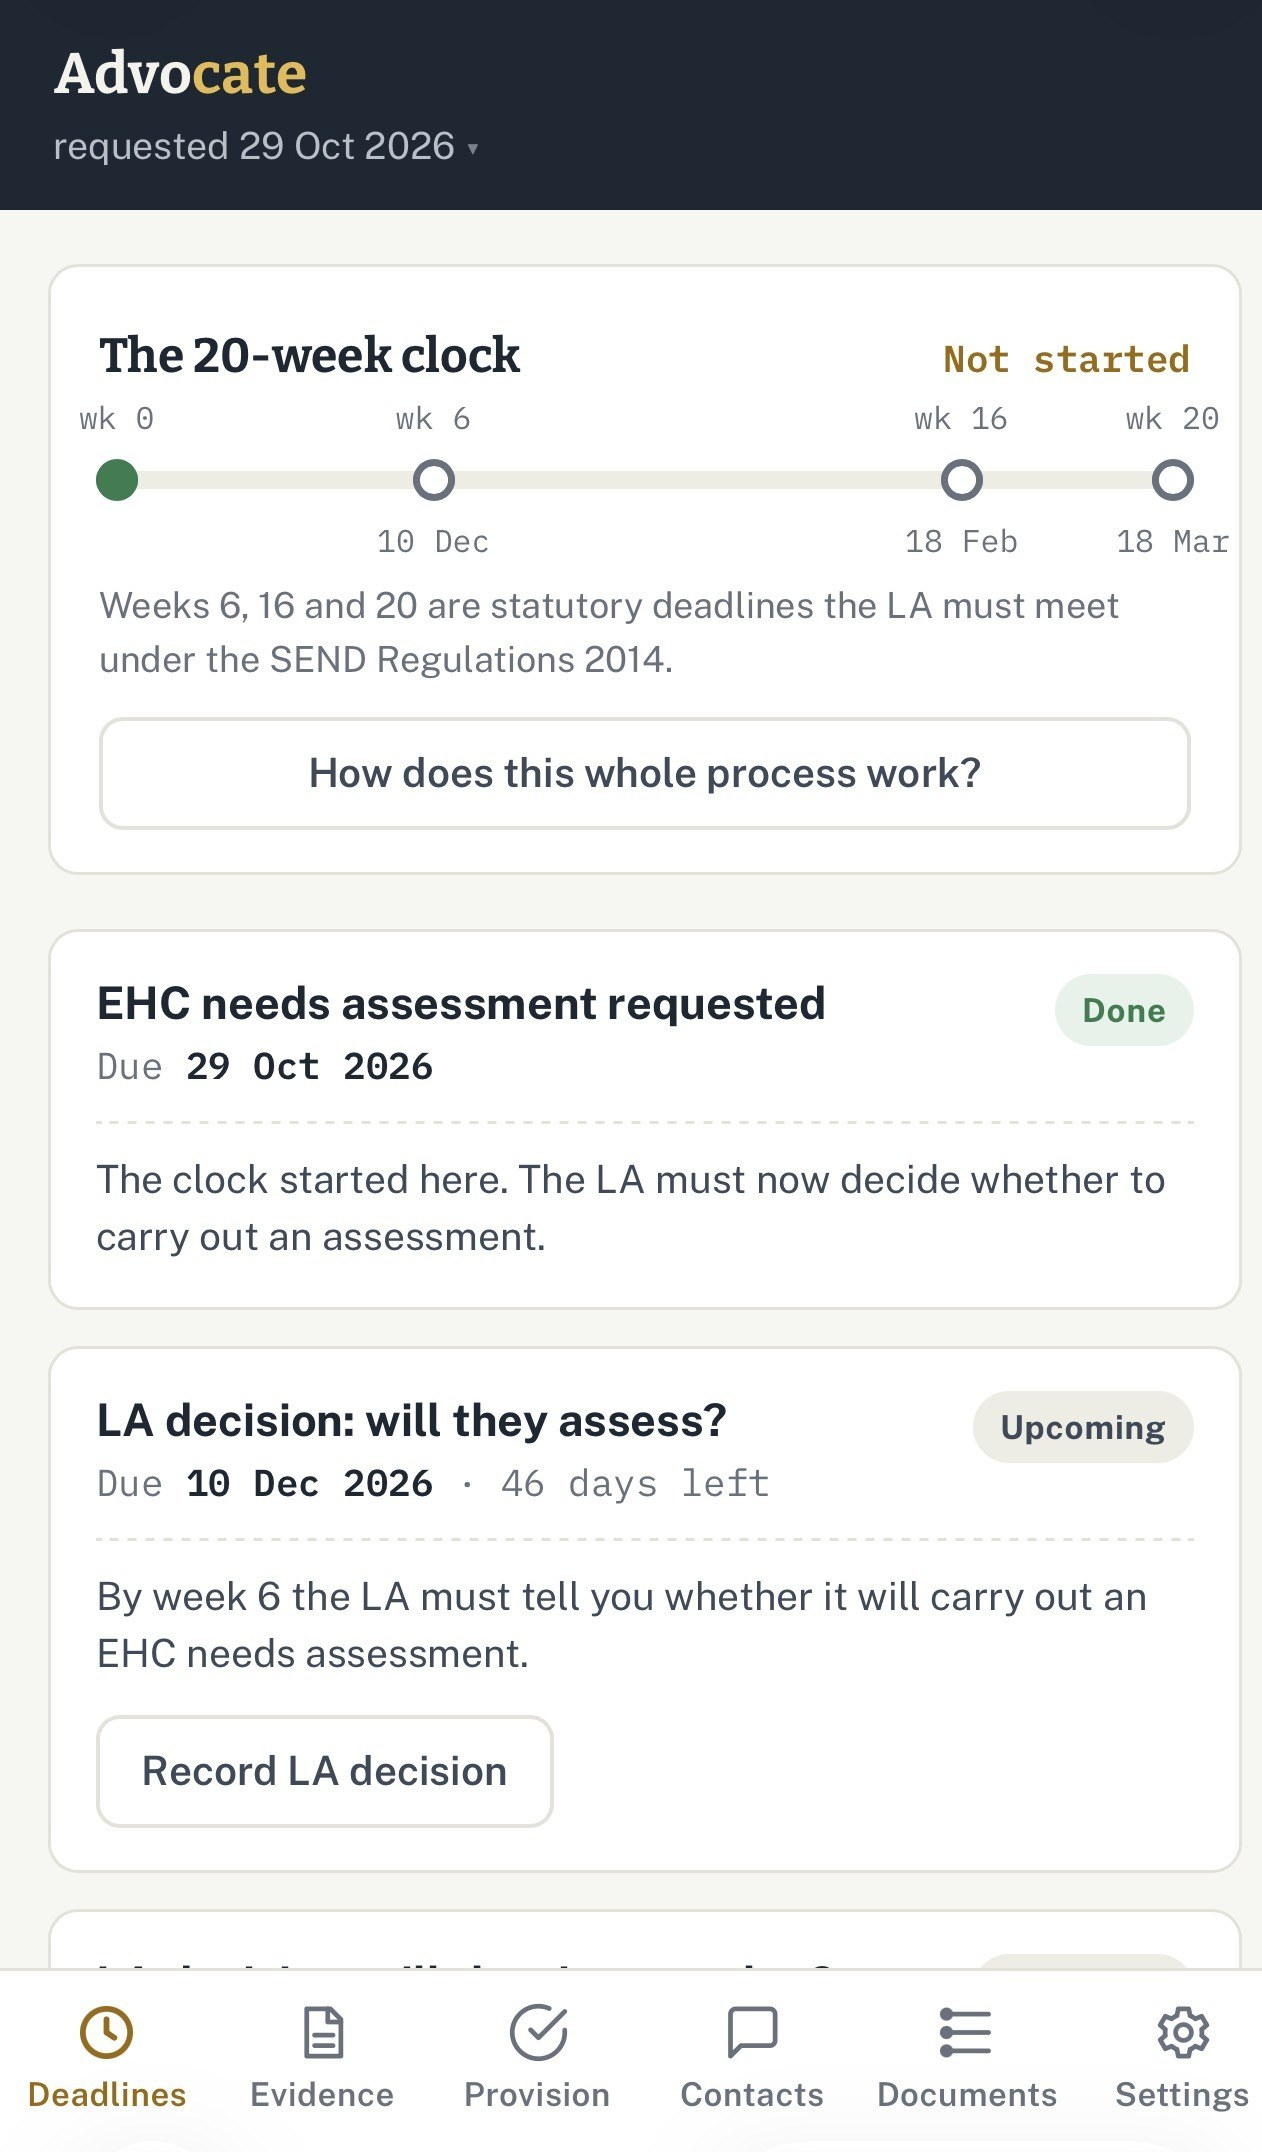
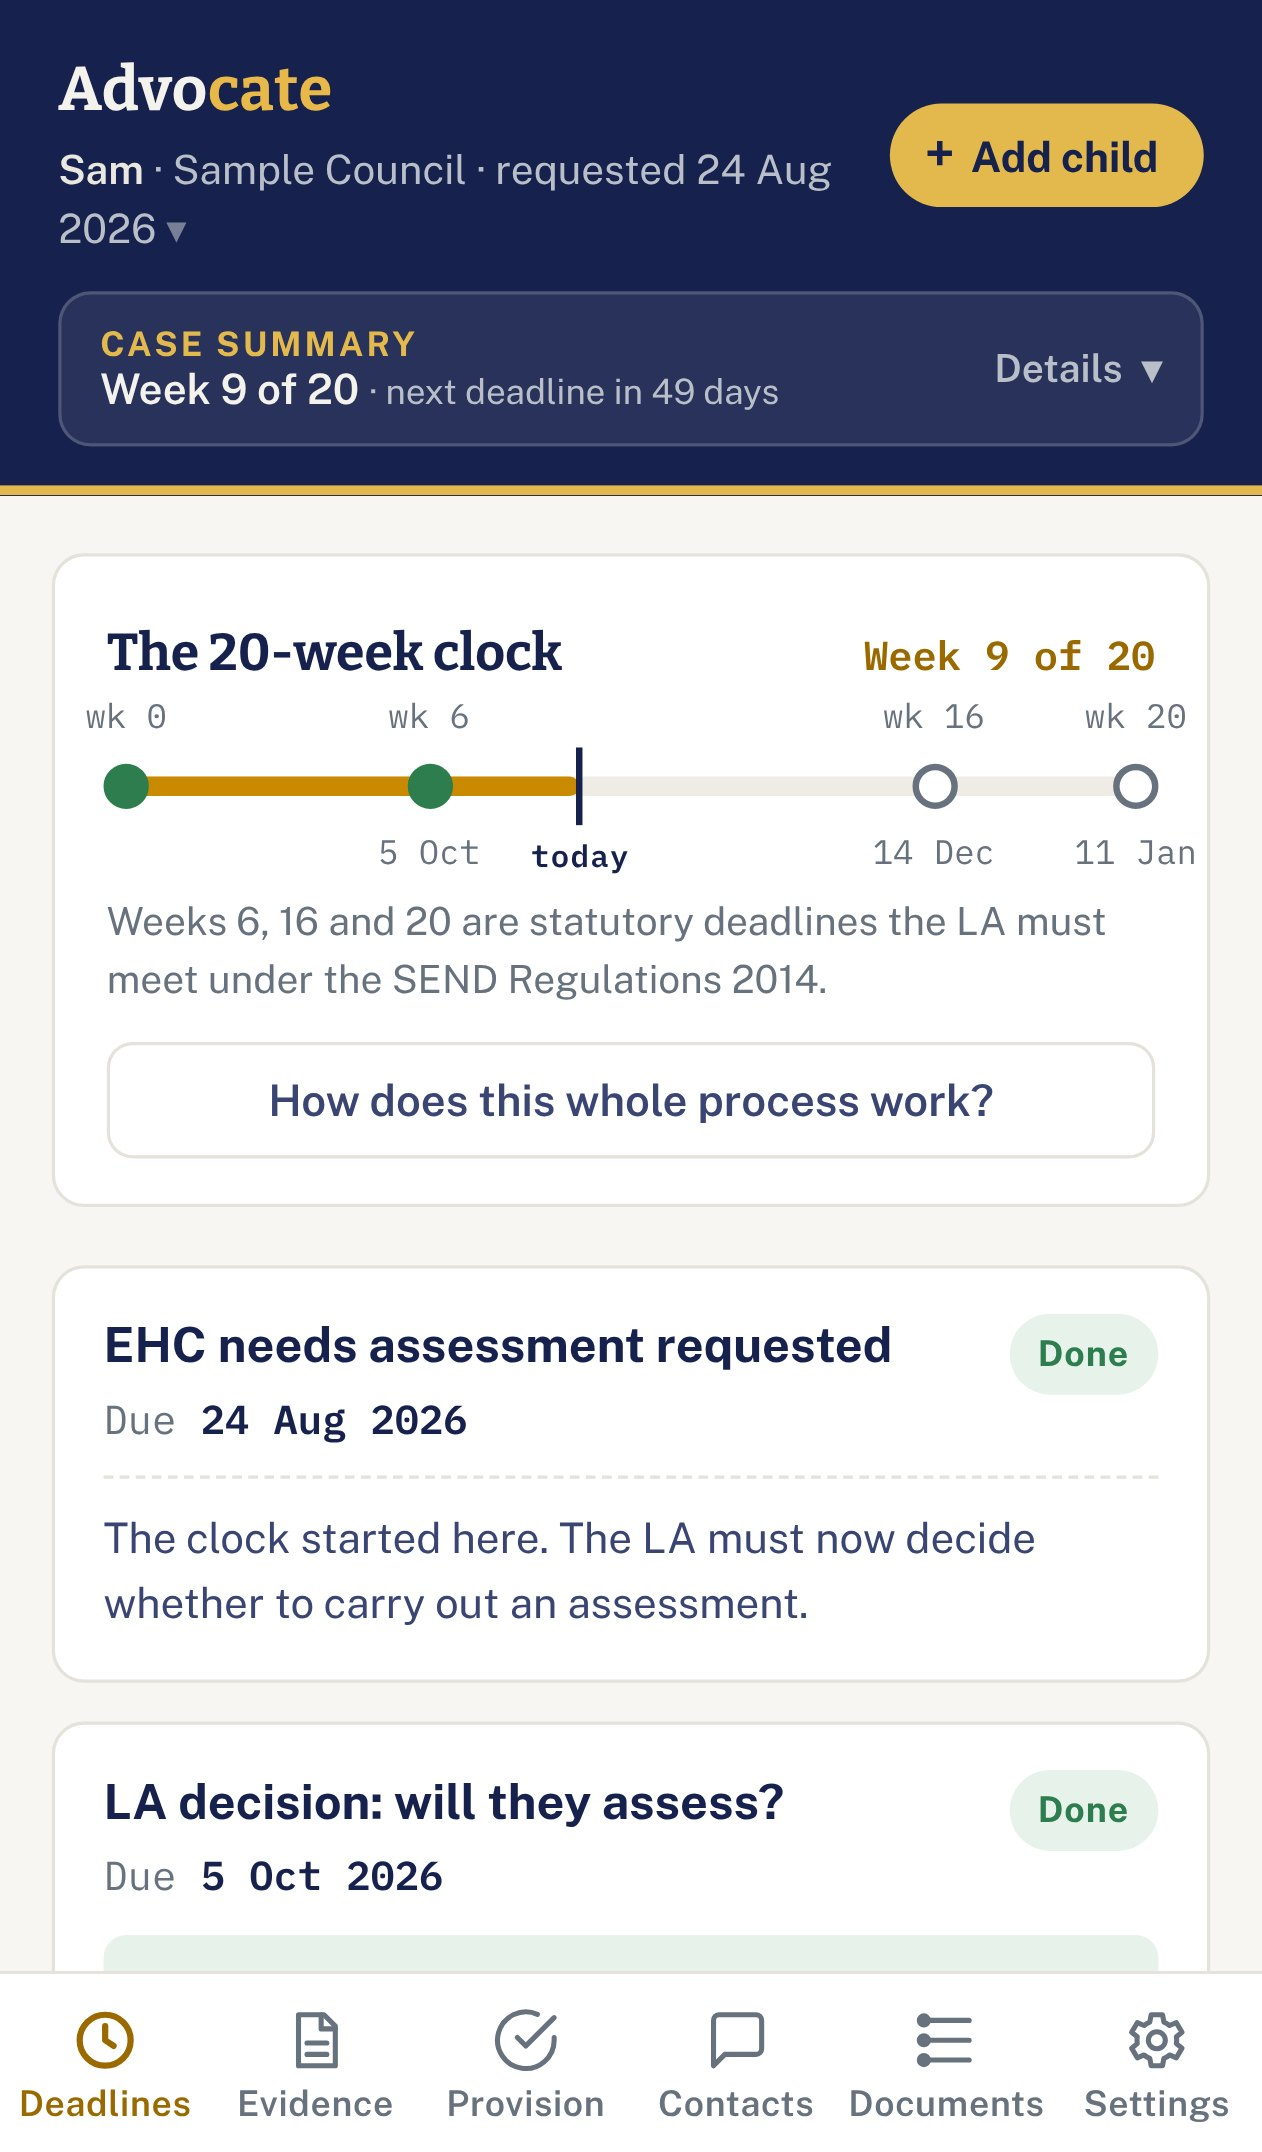
Info site: update Advocate content (reminders, letters, case pack, data on device, code sign-in), new screenshot, Advocate privacy/terms links; still 'Coming soon' with no app link
Claude-Session: https://claude.ai/code/session_018WR4SkxaNb3LRRwV8ea43V

diff --git a/send-apps-site/advocate/index.html b/send-apps-site/advocate/index.html
@@ -4,7 +4,7 @@
 <meta charset="utf-8">
 <meta name="viewport" content="width=device-width, initial-scale=1">
 <title>Advocate – EHCP deadline tracker | IncludeMe</title>
-<meta name="description" content="Advocate keeps every EHCP deadline, piece of evidence and contact in one place, with plain-English guidance at each stage of the 20-week process. Coming soon from IncludeMe.">
+<meta name="description" content="Advocate keeps every EHCP deadline, piece of evidence and contact in one place, with model letters, phone reminders and a printable case pack. Your case stays on your device. Coming soon from IncludeMe.">
 <link rel="canonical" href="https://info.includeme.uk/advocate/">
 <meta property="og:title" content="Advocate – EHCP deadline tracker | IncludeMe">
 <meta property="og:description" content="Know exactly where your child’s EHCP stands. Coming soon.">
@@ -192,12 +192,15 @@ footer a:hover { color: var(--navy); }
       <h2>Everything for the process, in one place.</h2>
     </div>
     <div class="feat-grid">
-      <div class="feat"><h3>Deadlines</h3><p>Each step is marked done or upcoming, with the due date and how many days are left.</p></div>
-      <div class="feat"><h3>Evidence</h3><p>Keep reports, letters and notes together with the case they belong to.</p></div>
-      <div class="feat"><h3>Provision</h3><p>Track the support your child is meant to receive.</p></div>
-      <div class="feat"><h3>Contacts</h3><p>Keep the names and details of everyone involved in one list.</p></div>
-      <div class="feat"><h3>Documents</h3><p>Store the paperwork you need, so you can find it when a deadline arrives.</p></div>
+      <div class="feat"><h3>Deadlines and annual reviews</h3><p>Each step is marked done or upcoming, with the due date and how many days are left. Add them to your phone calendar.</p></div>
+      <div class="feat"><h3>Phone reminders</h3><p>A notification on your phone, and an email if you like, a week, three days and a day before each deadline, and on the day.</p></div>
+      <div class="feat"><h3>Model letters</h3><p>Letters that cite the law, filled in from your case and grouped by where you are in the process. Record when you send each one.</p></div>
+      <div class="feat"><h3>Evidence</h3><p>Log reports, letters and notes, with a photo of each document and its page number in your bundle.</p></div>
+      <div class="feat"><h3>Provision and contacts</h3><p>Track the support your child is meant to receive, and keep a record of every call, email and meeting.</p></div>
+      <div class="feat"><h3>Case pack</h3><p>One printable document, with page numbers, for an adviser, solicitor or tribunal: dates, chronology, evidence index, contact log and letters sent.</p></div>
       <div class="feat"><h3>Plain-English guidance</h3><p>Each stage explains what it means and what to do next, so you are not working it out alone.</p></div>
+      <div class="feat"><h3>Your case stays with you</h3><p>Your child’s details and your evidence are kept on your own device, not on our servers. Back up in one tap.</p></div>
+      <div class="feat"><h3>Works on your phone</h3><p>A website you can add to your Home Screen, with no app store. Sign in with a code sent to your email, so no password to remember.</p></div>
     </div>
   </div>
 </section>
@@ -220,12 +223,13 @@ footer a:hover { color: var(--navy); }
           <div><span>Whole family, 3 or more</span><b>£9.99 max</b></div>
         </div>
         <ul>
-          <li>The 20-week clock and deadlines</li>
-          <li>Evidence, contacts and documents</li>
-          <li>Plain-English guidance at each stage</li>
+          <li>The 20-week clock, deadlines and annual reviews</li>
+          <li>Phone and email reminders</li>
+          <li>Model letters, chronology and case pack</li>
+          <li>Evidence, contacts and provision tracking</li>
           <li>3-day free trial: look around and track 1 child</li>
         </ul>
-        <p style="margin-top:14px;font-size:13px">No refunds after purchase, so use the trial to check Advocate suits you. This does not affect your legal rights.</p>
+        <p style="margin-top:14px;font-size:13px">No refunds after purchase, so use the trial to check Advocate suits you. This does not affect your legal rights. Read the <a href="https://advocate.includeme.uk/privacy.html" style="text-decoration:underline">privacy notice</a> and <a href="https://advocate.includeme.uk/terms.html" style="text-decoration:underline">terms</a>.</p>
       </div>
       <div class="price">
         <h3>IncludeMe Activity &amp; Therapy Finder</h3>
@@ -247,7 +251,11 @@ footer a:hover { color: var(--navy); }
     <div class="faq">
       <details><summary>Is Advocate available yet?</summary><p>Not yet. It is coming soon. We will publish how to get it on this page, and it may launch as a website first.</p></details>
       <details><summary>Who is it for?</summary><p>Parents and carers going through the EHC needs assessment process in England, who want to keep track of deadlines and paperwork.</p></details>
-      <details><summary>Is there a free trial?</summary><p>Yes, a 3-day trial so you can look around before you pay. It covers 1 child, up to 3 pieces of evidence and 3 contact logs, and you can view every screen. Letters, printing the chronology and calendar export are part of the full version. After 3 days the app becomes read-only unless you unlock it, and you can always export your data.</p></details>
+      <details><summary>Is there a free trial?</summary><p>Yes, a 3-day trial so you can look around before you pay. It covers 1 child, up to 3 pieces of evidence and 3 contact logs, and you can view every screen. Letters, printing the chronology and case pack, calendar export and deadline reminders are part of the full version. After 3 days the app becomes read-only unless you unlock it, and you can always export your data.</p></details>
+      <details><summary>Where is my child’s information kept?</summary><p>On your own device. Your child’s details, evidence, notes and letters are stored in your browser on the phone or computer you use, and are never sent to us. That is why Advocate has a one-tap backup. We keep only your email address and what you have paid for, and, if you switch reminders on, the dates of your deadlines. Read the <a href="https://advocate.includeme.uk/privacy.html" style="text-decoration:underline">privacy notice</a>.</p></details>
+      <details><summary>Do I need an account or a password?</summary><p>You sign in with your email address. We send you a 6-digit code to type in, so there is no password to remember or lose.</p></details>
+      <details><summary>Will it send reminders to my phone?</summary><p>Yes, in the full version. You choose whether to get phone notifications, email, or both. On an iPhone or iPad you first add Advocate to your Home Screen, which the app walks you through. Reminders are optional and you can turn them off at any time.</p></details>
+      <details><summary>Is there an app to download?</summary><p>Not from an app store. Advocate is a website that you can add to your Home Screen so it opens like an app, on iPhone, Android or a computer.</p></details>
       <details><summary>Can I get a refund?</summary><p>We do not offer refunds after purchase, which is why there is a free trial. This does not affect any legal rights you have, for example if the app is faulty.</p></details>
       <details><summary>How much will it cost?</summary><p>A one-off payment, with no subscription: £4.99 for one child, £2.99 more for each extra child, and never more than £9.99 for a whole family. Advocate is not on sale yet.</p></details>
       <details><summary>Is this legal advice?</summary><p>No. Advocate helps you organise your case and understand each stage. It is not legal advice.</p></details>
@@ -261,7 +269,7 @@ footer a:hover { color: var(--navy); }
 <footer>
   <div class="wrap">
     <span>© 2026 IncludeMe. Built in Surrey, UK.</span>
-    <span><a href="../contact/">Contact</a> · <a href="https://includeme.uk/privacy.html" target="_blank" rel="noopener">Privacy</a> · <a href="https://includeme.uk/terms.html" target="_blank" rel="noopener">Terms</a> · <a href="../">← Back to IncludeMe</a></span>
+    <span><a href="../contact/">Contact</a> · <a href="https://advocate.includeme.uk/privacy.html" target="_blank" rel="noopener">Advocate privacy</a> · <a href="https://advocate.includeme.uk/terms.html" target="_blank" rel="noopener">Advocate terms</a> · <a href="../">← Back to IncludeMe</a></span>
   </div>
 </footer>
 

diff --git a/send-apps-site/index.html b/send-apps-site/index.html
@@ -294,7 +294,9 @@ footer { padding: 64px 0 36px; font-size: 15px; }
       <ul class="band-points">
         <li><b>The 20-week clock</b><span>See each statutory deadline and how many days are left.</span></li>
         <li><b>Step-by-step guidance</b><span>Every stage is marked done or upcoming, with what it means and what to do next.</span></li>
-        <li><b>Evidence, contacts and documents</b><span>Keep reports, letters and key contacts with the case they belong to.</span></li>
+        <li><b>Reminders on your phone</b><span>A notification before each deadline, so nothing slips past.</span></li>
+        <li><b>Letters and a case pack</b><span>Model letters that cite the law, and one printable pack for advisers and tribunals.</span></li>
+        <li><b>Evidence, contacts and documents</b><span>Keep reports, letters and key contacts with the case they belong to. Your child’s details stay on your device.</span></li>
       </ul>
       <div class="adv-cta"><a class="btn btn-gold" href="advocate/">Details &amp; pricing →</a><span style="font-size:14px;color:rgba(255,255,255,.7)">Coming soon</span></div>
     </div>
@@ -330,7 +332,7 @@ footer { padding: 64px 0 36px; font-size: 15px; }
       <div class="feat"><svg viewBox="0 0 24 24"><circle cx="11" cy="11" r="8"/><path d="m21 21-4.35-4.35"/></svg><h3>Instant search</h3><p>Search by location and see results straight away.</p></div>
       <div class="feat"><svg viewBox="0 0 24 24"><path d="M21 10c0 7-9 13-9 13s-9-6-9-13a9 9 0 0 1 18 0z"/><circle cx="12" cy="10" r="3"/></svg><h3>Map and list views</h3><p>Switch between an interactive map and a scrollable list, whichever suits you.</p></div>
       <div class="feat"><svg viewBox="0 0 24 24"><path d="M22 11.08V12a10 10 0 1 1-5.93-9.14"/><polyline points="22 4 12 14.01 9 11.01"/></svg><h3>Trusted listings</h3><p>Providers are reviewed so you know what you are looking at.</p></div>
-      <div class="feat"><svg viewBox="0 0 24 24"><path d="M12 22s8-4 8-10V5l-8-3-8 3v7c0 6 8 10 8 10z"/></svg><h3>EHCP deadlines tracked</h3><p>Advocate counts down each statutory deadline for you.</p></div>
+      <div class="feat"><svg viewBox="0 0 24 24"><path d="M12 22s8-4 8-10V5l-8-3-8 3v7c0 6 8 10 8 10z"/></svg><h3>EHCP deadlines tracked</h3><p>Advocate counts down each statutory deadline and can remind you on your phone.</p></div>
       <div class="feat"><svg viewBox="0 0 24 24"><rect x="2" y="3" width="20" height="14" rx="2"/><path d="m8 21 4-4 4 4"/></svg><h3>Works on any device</h3><p>Phone, tablet or desktop.</p></div>
       <div class="feat"><svg viewBox="0 0 24 24"><path d="M20.84 4.61a5.5 5.5 0 0 0-7.78 0L12 5.67l-1.06-1.06a5.5 5.5 0 0 0-7.78 7.78l1.06 1.06L12 21.23l7.78-7.78 1.06-1.06a5.5 5.5 0 0 0 0-7.78z"/></svg><h3>Lived experience</h3><p>Built by a SEND family in Surrey. No ads and no data harvesting.</p></div>
     </div>
@@ -358,7 +360,7 @@ footer { padding: 64px 0 36px; font-size: 15px; }
         <p>Help for every family. Made by a family, with love, in Surrey.</p>
       </div>
       <div class="foot-col"><h4>Activity &amp; Therapy Finder</h4><a href="https://includeme.uk" target="_blank" rel="noopener">Open app ↗</a><a href="finder/">Details</a></div>
-      <div class="foot-col"><h4>Advocate</h4><a href="advocate/">Details &amp; pricing</a></div>
+      <div class="foot-col"><h4>Advocate</h4><a href="advocate/">Details &amp; pricing</a><a href="https://advocate.includeme.uk/privacy.html" target="_blank" rel="noopener">Advocate privacy</a><a href="https://advocate.includeme.uk/terms.html" target="_blank" rel="noopener">Advocate terms</a></div>
       <div class="foot-col"><h4>Info</h4><a href="#how">How it works</a><a href="contact/">Contact</a><a href="https://includeme.uk/privacy.html" target="_blank" rel="noopener">Privacy policy</a><a href="https://includeme.uk/terms.html" target="_blank" rel="noopener">Terms</a></div>
     </div>
     <div class="foot-bottom"><span>© 2026 IncludeMe. Built in Surrey, UK.</span><span>No ads · No tracking</span></div>
